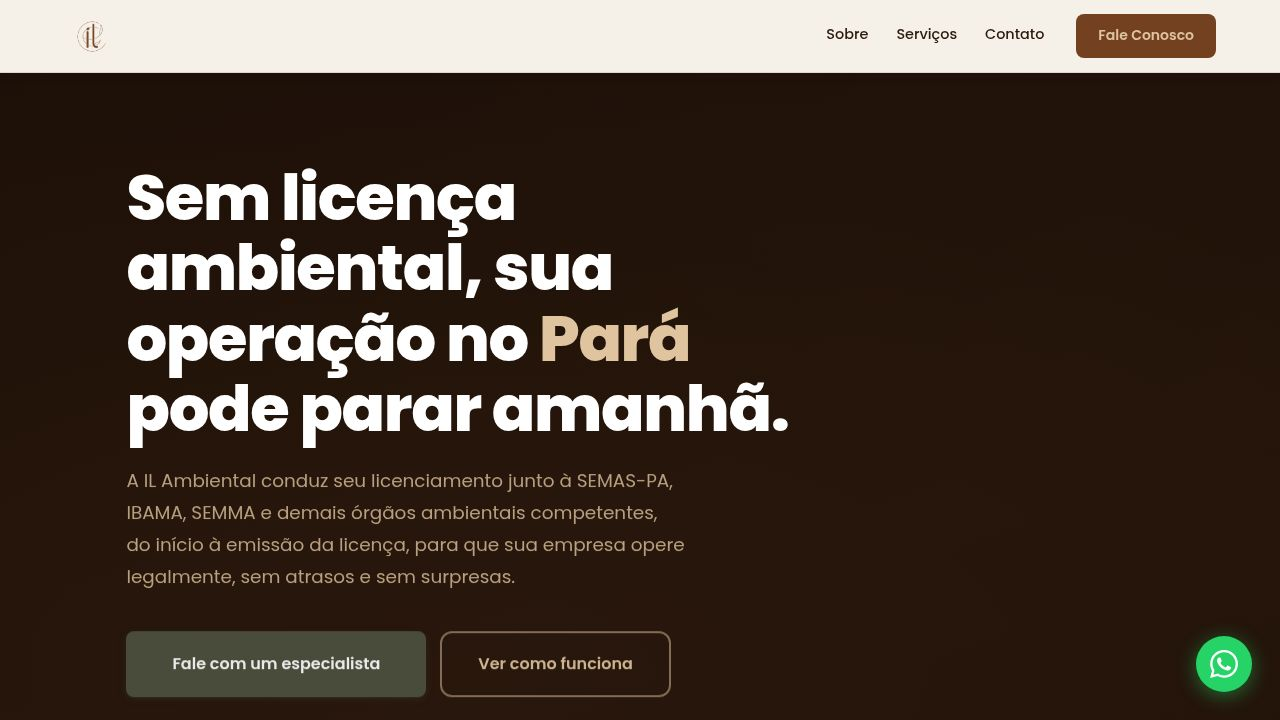
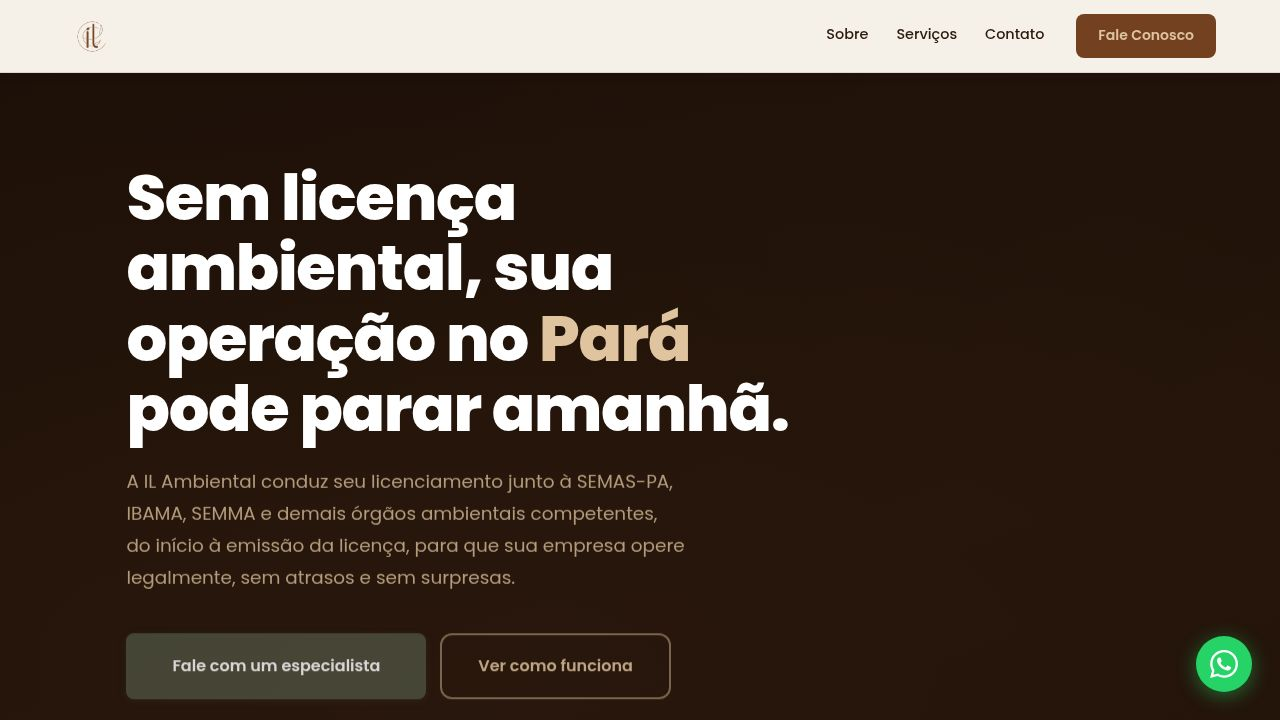
Improve website layout and readability on mobile devices
Apply responsive design adjustments to the website's CSS, including overflow fixes, hero section padding and text sizing adjustments, and optimized heading font sizes for mobile viewports.

Replit-Commit-Author: Agent
Replit-Commit-Session-Id: ea812e3b-796e-4813-9efd-bacc2f4082d0
Replit-Commit-Checkpoint-Type: full_checkpoint
Replit-Commit-Event-Id: 1c503bf6-164f-4266-a159-aa7065650478
Replit-Commit-Screenshot-Url: https://storage.googleapis.com/screenshot-production-us-central1/9a73dc64-90d7-4f41-b448-8bc31e40e49f/ea812e3b-796e-4813-9efd-bacc2f4082d0/v19NYEU
Replit-Helium-Checkpoint-Created: true

diff --git a/artifacts/il-ambiental-site/src/index.css b/artifacts/il-ambiental-site/src/index.css
@@ -76,7 +76,16 @@
 }
 
 *, *::before, *::after { box-sizing: border-box; margin: 0; padding: 0; }
-html { font-size: 16px; scroll-behavior: smooth; }
+html {
+  font-size: 16px;
+  scroll-behavior: smooth;
+  overflow-x: hidden;
+  max-width: 100%;
+}
+body {
+  overflow-x: hidden;
+  max-width: 100%;
+}
 
 body {
   font-family: var(--font-body);
@@ -612,7 +621,42 @@ input:focus, textarea:focus, select:focus {
     border-bottom: none;
   }
 
-  /* — Hero sections — */
+  /* — Hero: padding reduzido no mobile — */
+  .hero-animated-bg,
+  .page-hero {
+    padding-top: 72px !important;
+    padding-bottom: 40px !important;
+    padding-left: 20px !important;
+    padding-right: 20px !important;
+  }
+
+  /* — Hero inner content div: full-width, sem margem lateral extra — */
+  .hero-animated-bg > div:last-child,
+  .page-hero > div:last-child {
+    max-width: 100% !important;
+    margin-left: 0 !important;
+    width: 100% !important;
+  }
+
+  /* — Hero h1: sem overflow, tamanho adaptado — */
+  .hero-animated-bg h1,
+  .page-hero h1 {
+    font-size: clamp(28px, 8vw, 38px) !important;
+    word-break: break-word;
+    overflow-wrap: break-word;
+    hyphens: auto;
+    width: 100%;
+    max-width: 100%;
+  }
+
+  /* — Hero parágrafo: legível no mobile — */
+  .hero-animated-bg p,
+  .page-hero p {
+    font-size: 16px !important;
+    max-width: 100%;
+  }
+
+  /* — Hero CTA: empilhados em coluna — */
   .hero-cta-group {
     flex-direction: column;
     align-items: stretch;
@@ -1341,12 +1385,12 @@ a {
   }
 
   h2 {
-    font-size: 26px !important;
+    font-size: clamp(22px, 6.5vw, 32px) !important;
     line-height: 1.25 !important;
   }
 
   h3 {
-    font-size: 21px !important;
+    font-size: clamp(18px, 5vw, 22px) !important;
     line-height: 1.3 !important;
   }
 